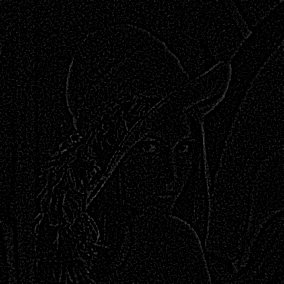
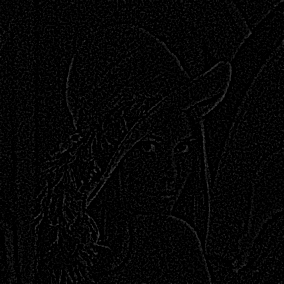
this is the one :))

diff --git a/reconstruct_laplacian_pyramid.py b/reconstruct_laplacian_pyramid.py
@@ -36,7 +36,7 @@ noised_img = add_noise(original_img)
 wiener_filtered_img = adaptive_wiener_filter(noised_img)
 
 # Specify the number of levels in the Laplacian pyramid
-no_levels = 4
+no_levels = 20
 
 # Build the Laplacian pyramid for the noised image
 laplacian_pyramid_noised = build_laplacian_pyramid(noised_img, no_levels)
